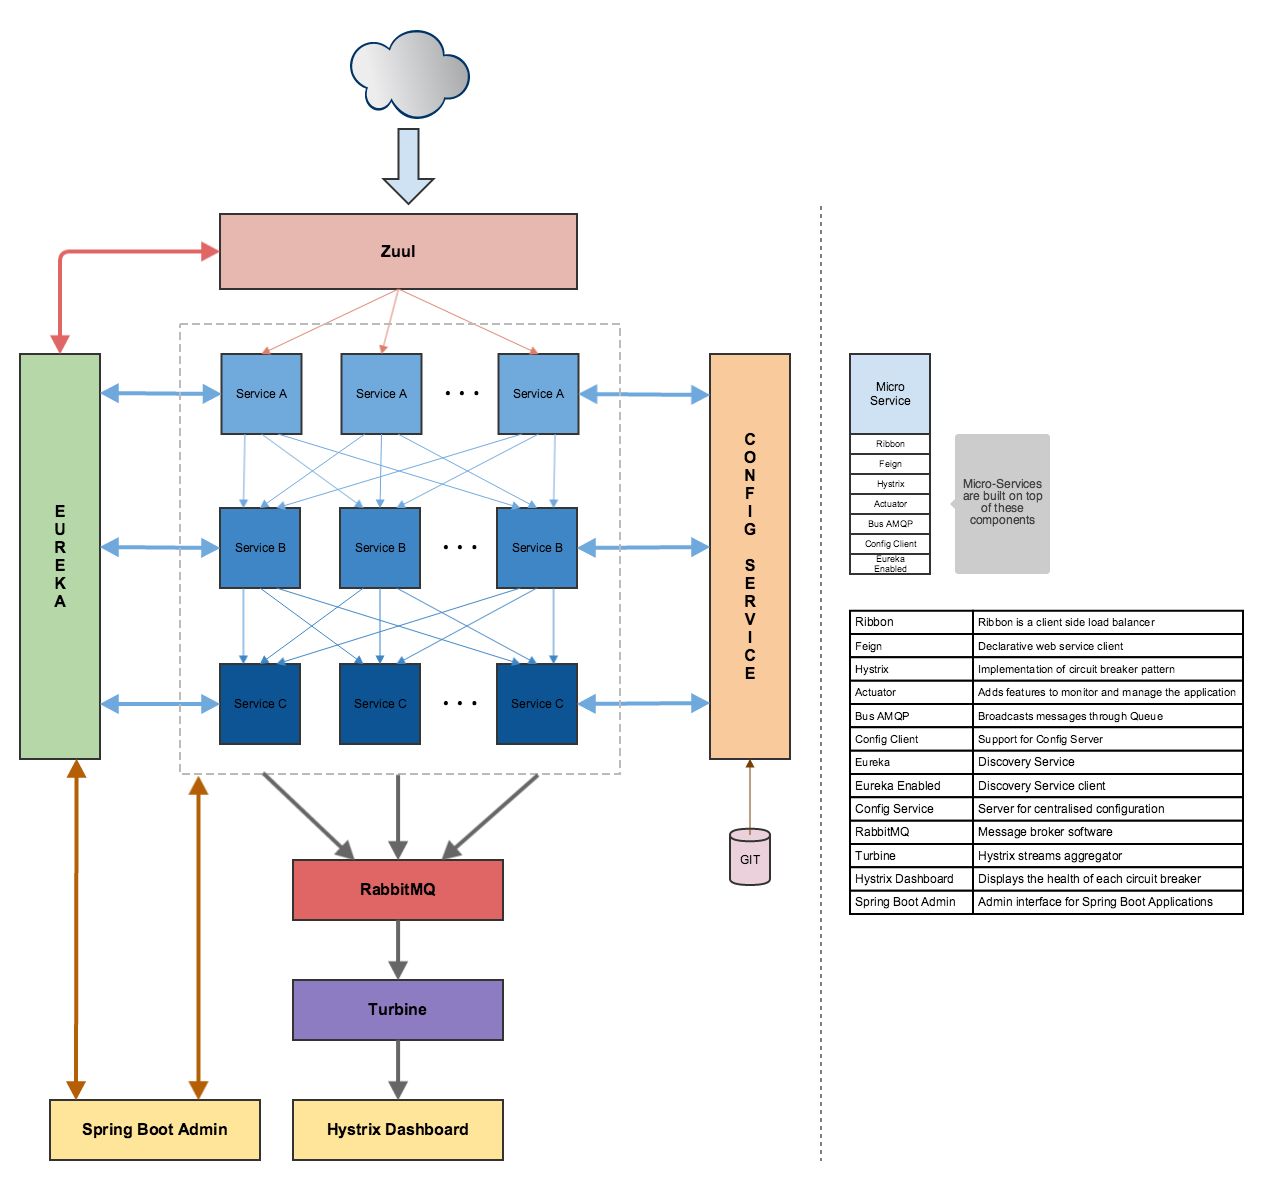
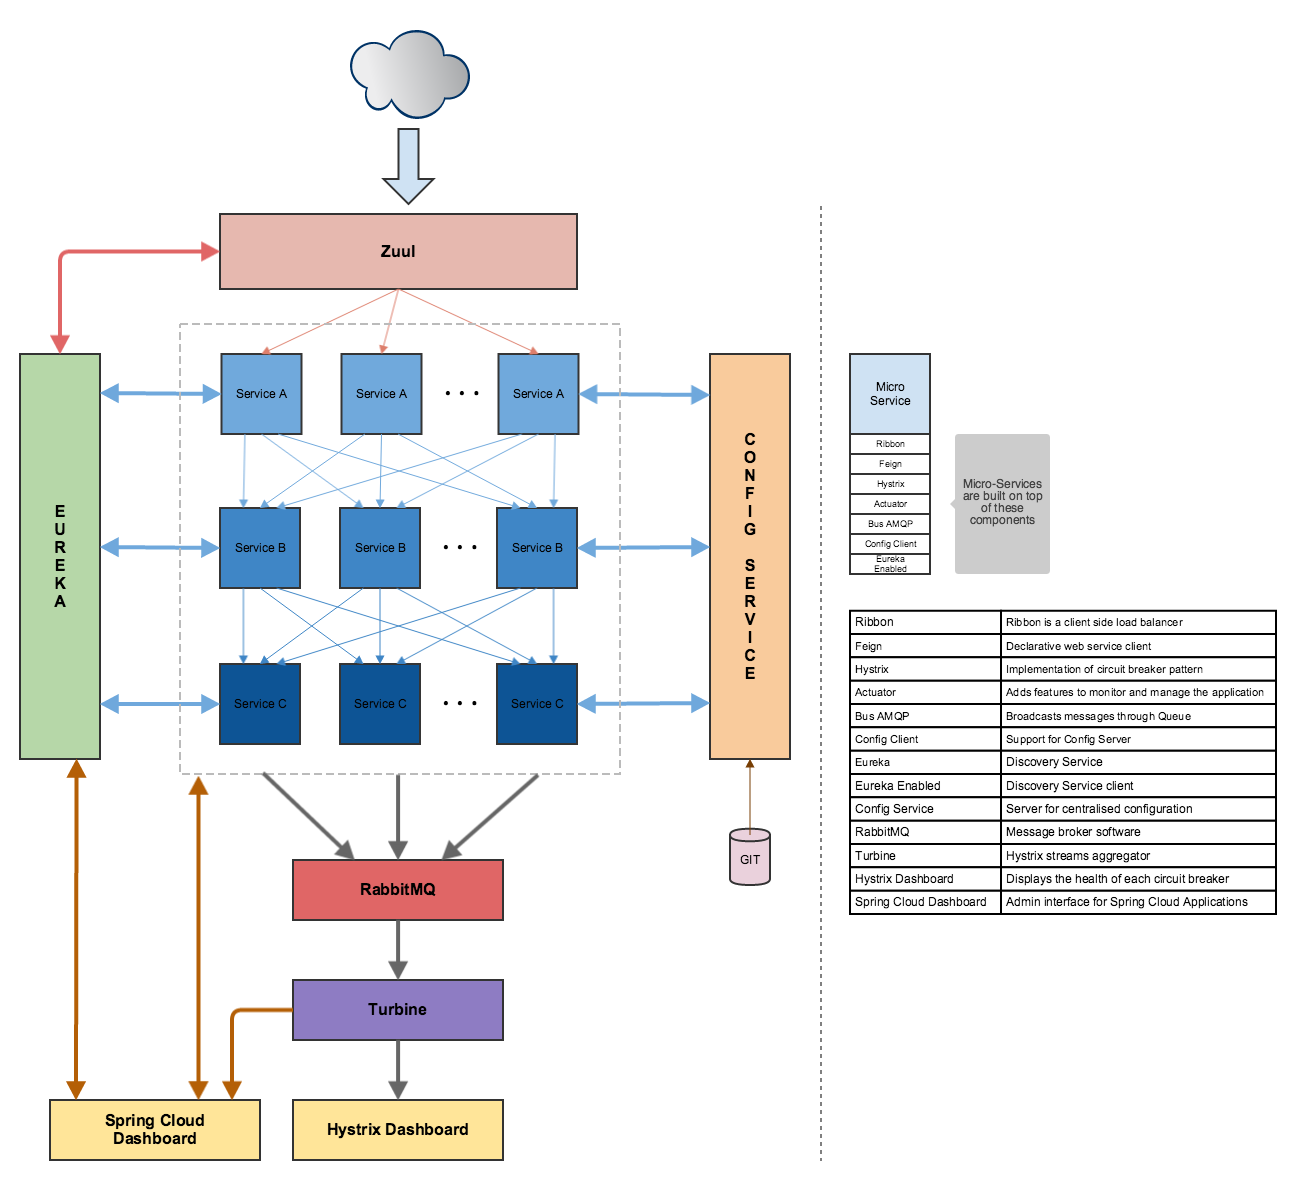
Updating documentation with Spring Cloud Dashboard

diff --git a/README.md b/README.md
@@ -19,7 +19,7 @@ The main parts are (they each have a readme.md with more details):
 6. [Microservice B: This is the server micro-service for service A] (https://github.com/Oreste-Luci/netflix-oss-example/tree/master/service_b)
 7. [Microservice A: This is the client micro-service] (https://github.com/Oreste-Luci/netflix-oss-example/tree/master/service_a)
 8. [Zuul](https://github.com/Oreste-Luci/netflix-oss-example/tree/master/zuul)
-9. [Spring Boot Admin](https://github.com/Oreste-Luci/netflix-oss-example/tree/master/spring-boot-admin)
+9. [Spring Cloud Dashboard](https://github.com/Oreste-Luci/netflix-oss-example/tree/master/spring-cloud-dashboard)
 
 The services can be started in any other but it recommended to start them in above order.
 
